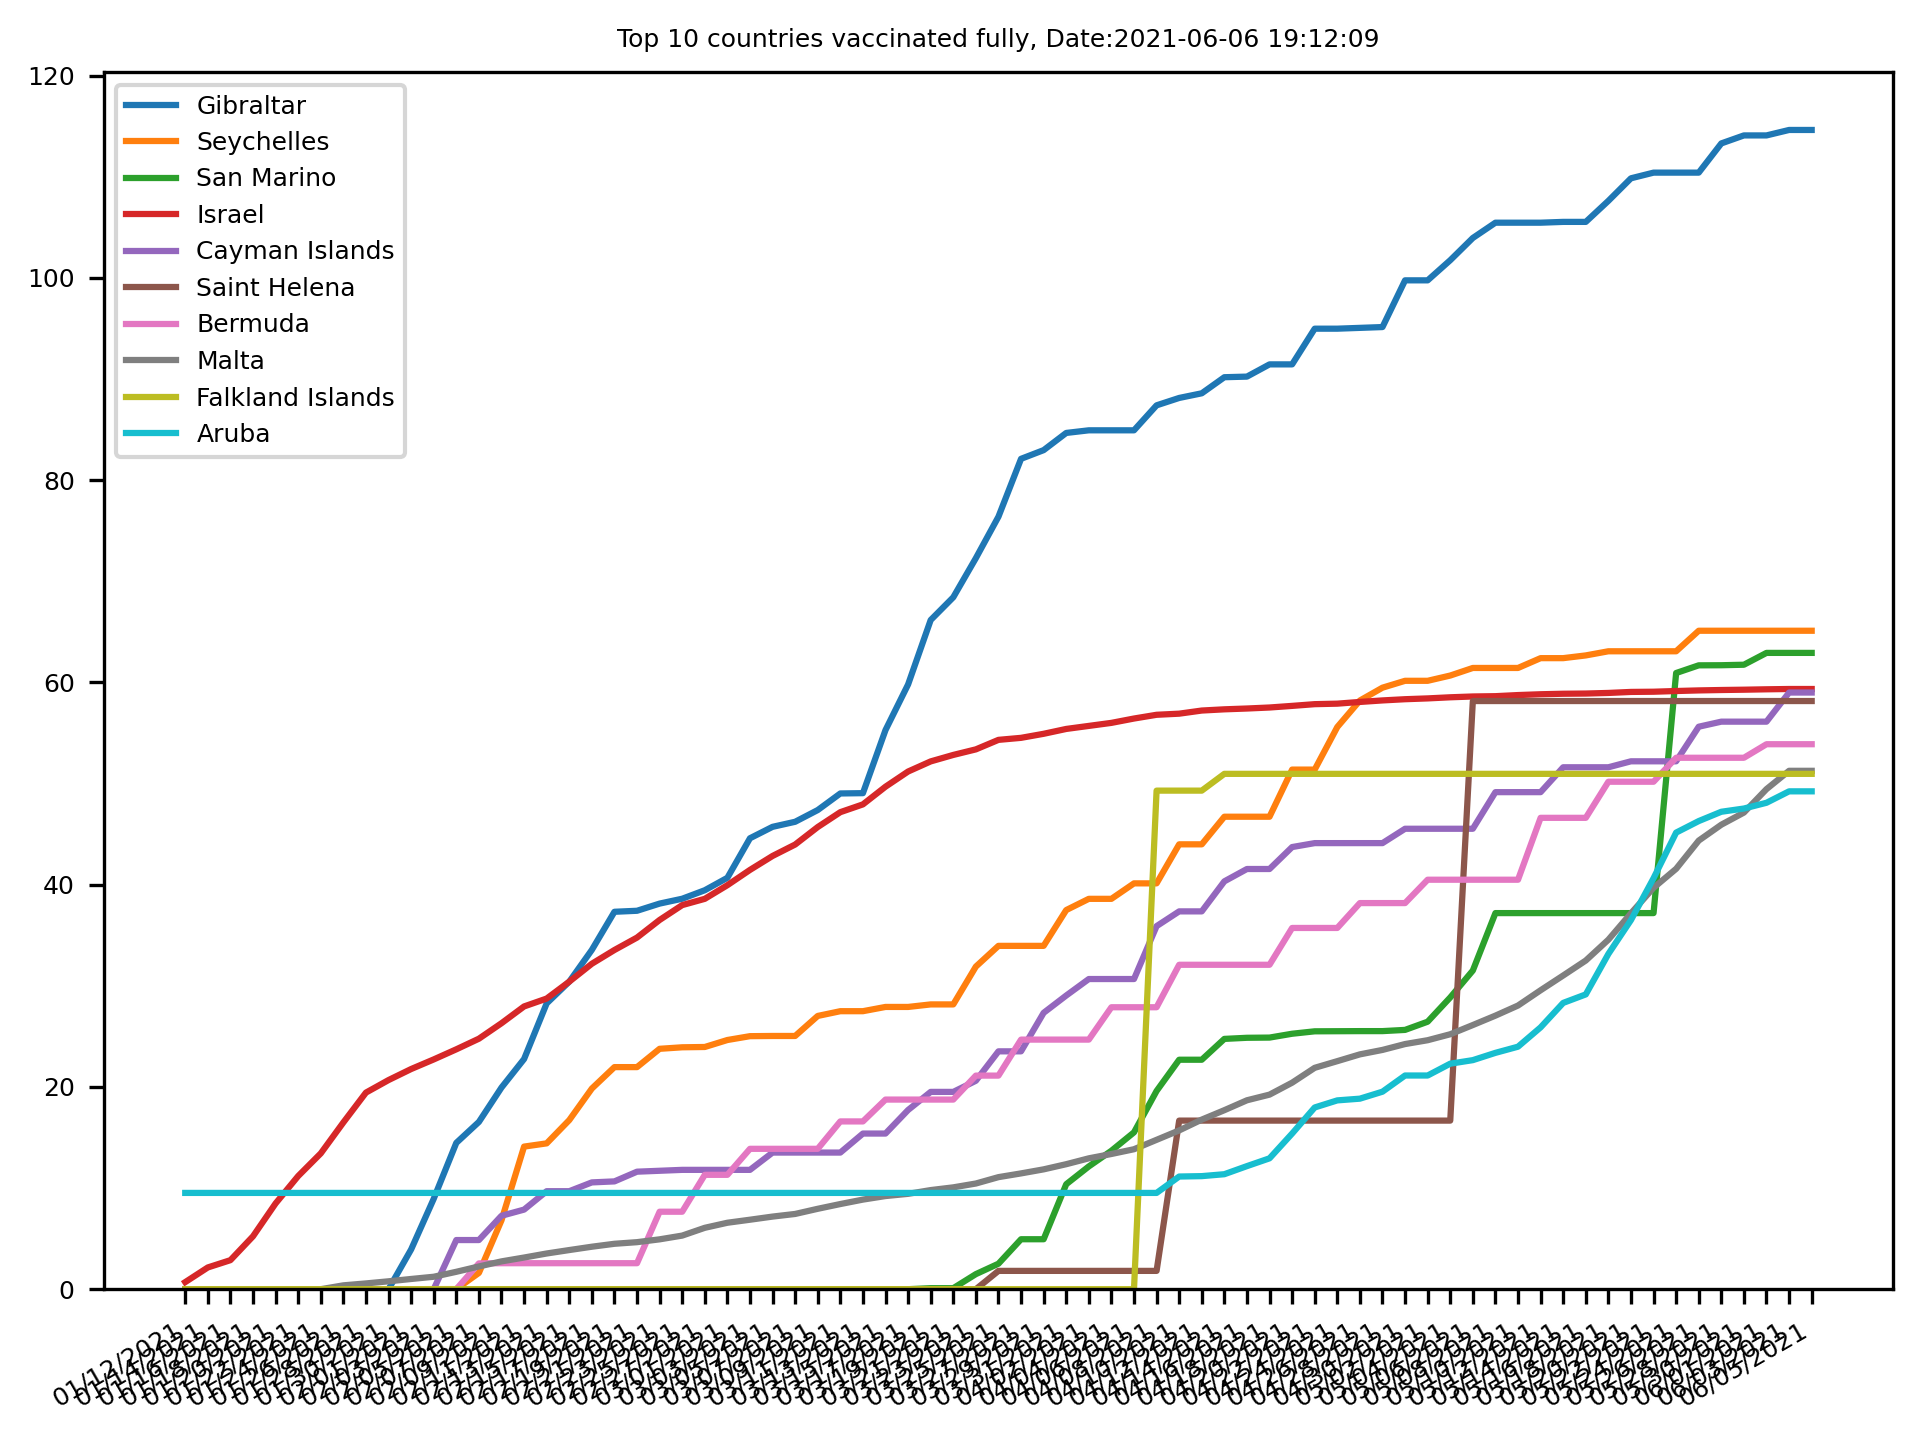
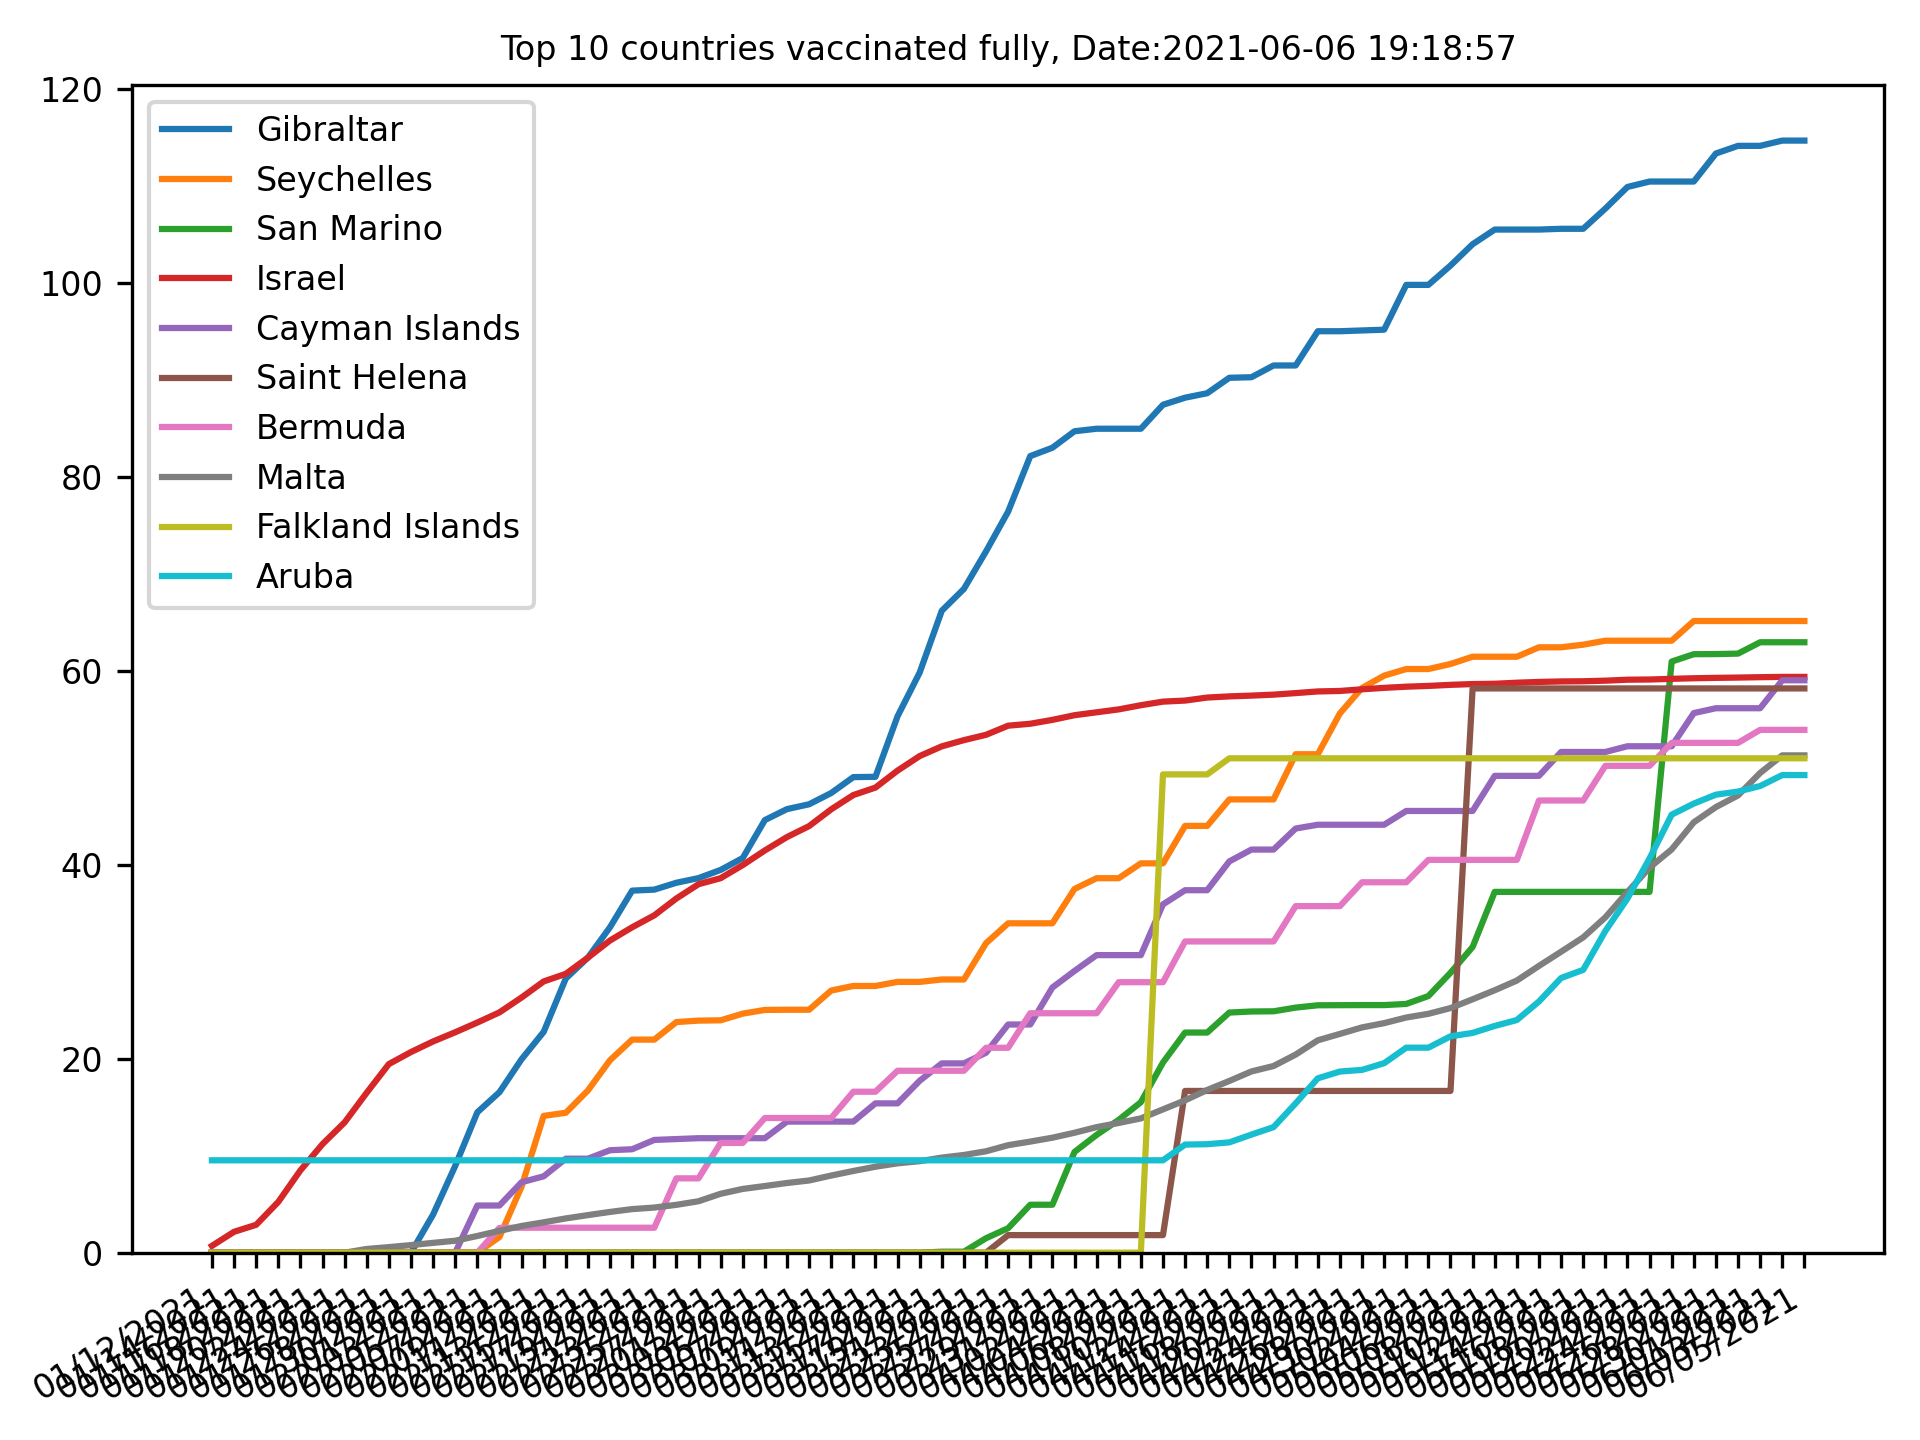
updated to 6/June/21

diff --git a/coronavirus/plotVaccinations.py b/coronavirus/plotVaccinations.py
@@ -13,11 +13,11 @@ from plotCoronavirous import readCsv, gSaveBasePath,binaryDf
 from predictStatistics import plotDataAx
 from commonPath import createPath,getFileName,pathsFiles
 
-SMALL_SIZE = 6
+SMALL_SIZE = 8
 MEDIUM_SIZE = 10
 BIGGER_SIZE = 12
 
-matplotlib.rcParams['figure.dpi'] = 150 #high resolution 100~300
+#matplotlib.rcParams['figure.dpi'] = 150 #high resolution 100~300
 
 plt.rc('font', size=SMALL_SIZE)          # controls default text sizes
 #plt.rc('font', family='Times New Roman')

diff --git a/README.md b/README.md
@@ -59,8 +59,8 @@ Updated to adapt the new google page.<br/>
 |---|---|
 |<img src="images/World_vaccinatedPerHundred.png" width="320" height="240" />|<img src="images/World_vaccinated.png" width="320" height="240" />|
 |<img src="images/World_vaccinatedNew.png" width="320" height="240" />|<img src="images/World_vaccinatedTotal.png" width="320" height="240" />|
-|<img src="images/World_vaccineFully_top.png" width="320" height="240" />|<img src="images/World_peopleVaccined_top.png" width="320" height="240" />|
-|<img src="images/World_vaccinePerH_top.png" width="320" height="240" />|<img src="images/World_vaccineContinent.png" width="320" height="240" />|
+|<img src="images/World_vaccineFully_top.png" width="320" height="240" />|<img src="images/World_vaccinePerH_top.png" width="320" height="240" />|
+|<img src="images/World_peopleVaccined_top.png" width="320" height="240" />|<img src="images/World_vaccineContinent.png" width="320" height="240" />|
 |<img src="images/probVaccine.png" width="320" height="240" />|<img src="images/probVaccineT.png" width="320" height="240" />|
 
 
